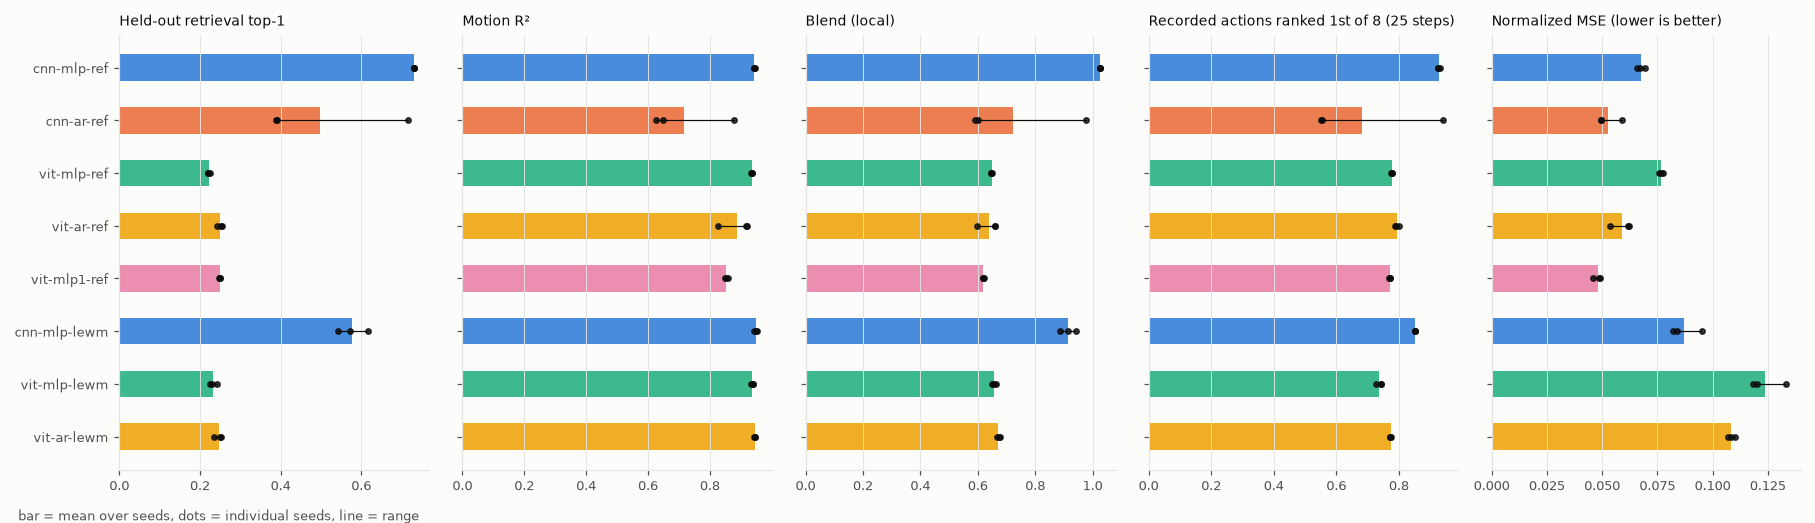
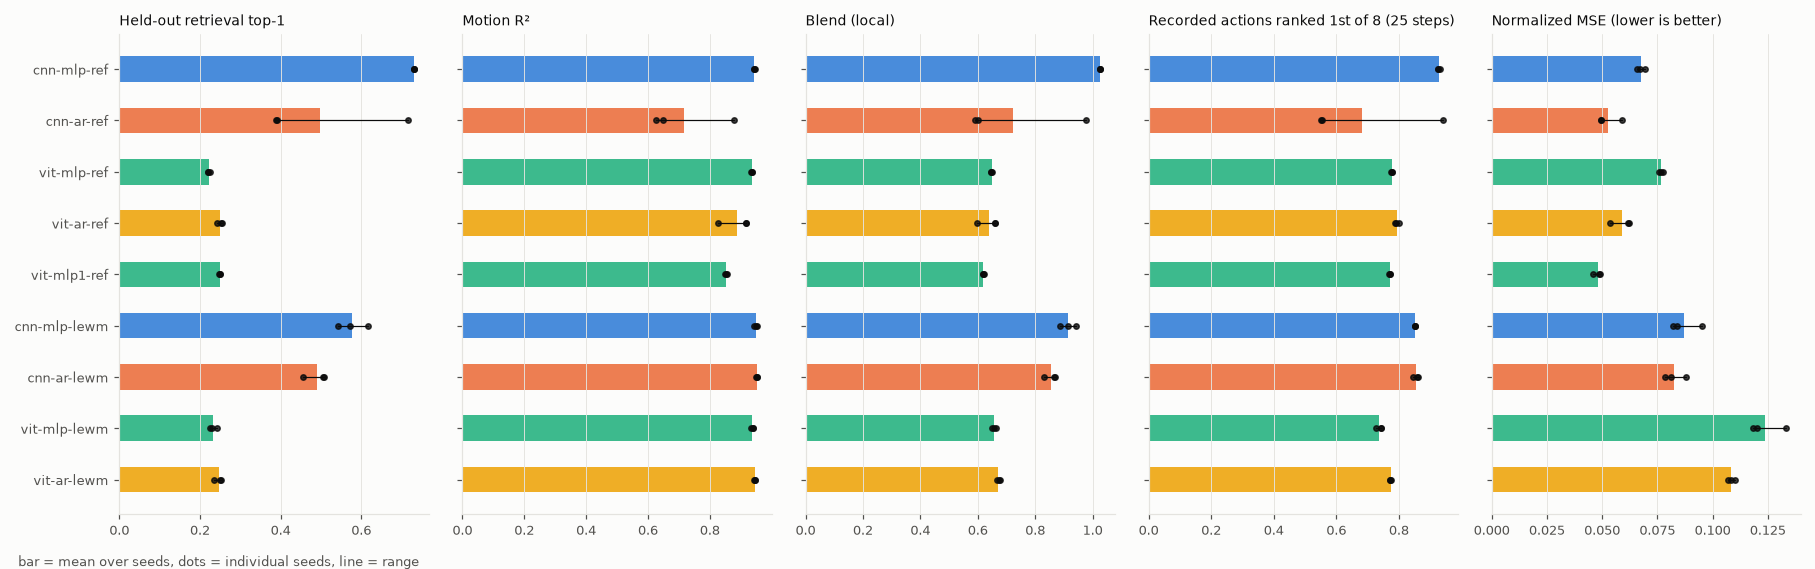
Added results from more ablation studies

diff --git a/experiments/ablations/results/encoder/report/summary.md b/experiments/ablations/results/encoder/report/summary.md
@@ -1,0 +1,15 @@
+Mean ± standard deviation across seeds; train_minutes is the mean training time of one seed with the fastest and slowest seed in brackets (evaluation not included).
+
+| combination | seeds | top1 | nmse | encoder_only | pos_r2 | blend | action_top1_25 | final_mse | train_minutes (min–max) | onnx_mib | test_submission_passed | node (GPU) |
+|---|---|---|---|---|---|---|---|---|---|---|---|---|
+| cnn-mlp-ref | 3 | 0.730 ± 0.000 | 0.067 ± 0.002 | 0.011 ± 0.001 | 0.944 ± 0.001 | 1.025 ± 0.001 | 0.927 ± 0.004 | 0.033 ± 0.000 | 82.9 (81.5–85.1) | 5.700 ± 0.000 | 3/3 | gpu2002 (RTX 2080 Ti) |
+| vit-mlp-ref | 3 | 0.221 ± 0.002 | 0.077 ± 0.001 | 0.011 ± 0.000 | 0.935 ± 0.002 | 0.648 ± 0.003 | 0.778 ± 0.002 | 0.027 ± 0.002 | 182.7 (179.7–187.0) | 4.780 ± 0.000 | 3/3 | gpu1602 (GTX 1080) |
+| vit-mlp1-ref | 3 | 0.249 ± 0.001 | 0.048 ± 0.002 | 0.011 ± 0.000 | 0.853 ± 0.004 | 0.619 ± 0.003 | 0.770 ± 0.001 | 0.026 ± 0.001 | 158.0 (157.6–158.5) | 4.400 ± 0.000 | 3/3 | gpu1702 (GTX 1080 Ti) |
+| vit_d192-mlp-ref | 2 | 0.215 ± 0.010 | 0.102 ± 0.004 | 0.011 ± 0.000 | 0.939 ± 0.002 | 0.646 ± 0.009 | 0.768 ± 0.002 | 0.037 ± 0.000 | 357.2 (354.3–360.2) | 14.100 ± 0.000 | 2/2 | gpu1603 (GTX 1080) |
+| vit_d48-mlp-ref | 3 | 0.216 ± 0.010 | 0.073 ± 0.013 | 0.011 ± 0.001 | 0.915 ± 0.011 | 0.632 ± 0.002 | 0.770 ± 0.015 | 0.035 ± 0.014 | 166.7 (165.9–168.2) | 2.240 ± 0.000 | 3/3 | gpu1604 (GTX 1080) |
+| vit_ln-mlp-ref | 3 | 0.154 ± 0.110 | 0.186 ± 0.100 | 0.009 ± 0.003 | 0.689 ± 0.425 | 0.455 ± 0.330 | 0.638 ± 0.169 | 0.073 ± 0.028 | 204.6 (203.6–206.3) | 4.780 ± 0.000 | 3/3 | gpu1605 (GTX 1080) |
+| vit_lr1e3-mlp-ref | 3 | 0.225 ± 0.007 | 0.079 ± 0.001 | 0.011 ± 0.001 | 0.930 ± 0.007 | 0.648 ± 0.003 | 0.775 ± 0.005 | 0.025 ± 0.003 | 116.1 (115.0–116.7) | 4.780 ± 0.000 | 3/3 | gpu2002 (RTX 2080 Ti) |
+| vit_lr5e5-mlp-ref | 3 | 0.215 ± 0.005 | 0.081 ± 0.005 | 0.010 ± 0.000 | 0.935 ± 0.002 | 0.643 ± 0.004 | 0.775 ± 0.002 | 0.037 ± 0.002 | 117.6 (116.8–118.0) | 4.780 ± 0.000 | 3/3 | gpu2002 (RTX 2080 Ti) |
+| vit_p16-mlp-ref | 3 | 0.226 ± 0.003 | 0.076 ± 0.002 | 0.011 ± 0.000 | 0.936 ± 0.004 | 0.651 ± 0.004 | 0.778 ± 0.008 | 0.028 ± 0.001 | 104.3 (102.9–106.9) | 4.980 ± 0.000 | 3/3 | gpu1602 (GTX 1080) |
+| vitst-mlp-ref | 3 | 0.691 ± 0.013 | 0.051 ± 0.002 | 0.011 ± 0.001 | 0.909 ± 0.005 | 0.976 ± 0.011 | 0.936 ± 0.001 | 0.035 ± 0.002 | 200.0 (199.2–201.1) | 4.410 ± 0.000 | 3/3 | gpu1907 (TITAN RTX) |
+| vitstack-mlp-ref | 3 | 0.470 ± 0.224 | 0.115 ± 0.052 | 0.010 ± 0.003 | 0.452 ± 0.419 | 0.546 ± 0.410 | 0.735 ± 0.172 | 0.112 ± 0.059 | 148.1 (145.8–150.8) | 4.540 ± 0.000 | 3/3 | gpu1906 (GTX 1080 Ti) |

diff --git a/experiments/ablations/results/loss/report/summary.md b/experiments/ablations/results/loss/report/summary.md
@@ -1,0 +1,13 @@
+Mean ± standard deviation across seeds; train_minutes is the mean training time of one seed with the fastest and slowest seed in brackets (evaluation not included).
+
+| combination | seeds | top1 | nmse | encoder_only | pos_r2 | blend | action_top1_25 | final_mse | train_minutes (min–max) | onnx_mib | test_submission_passed | node (GPU) |
+|---|---|---|---|---|---|---|---|---|---|---|---|---|
+| cnn-mlp-lewm | 3 | 0.577 ± 0.037 | 0.087 ± 0.007 | 0.015 ± 0.002 | 0.948 ± 0.004 | 0.915 ± 0.028 | 0.852 ± 0.001 | 0.055 ± 0.004 | 75.7 (74.8–77.2) | 5.700 ± 0.000 | 3/3 | gpu1906 (GTX 1080 Ti) |
+| cnn-mlp-lewm_nce | 3 | 0.749 ± 0.005 | 0.118 ± 0.001 | 0.016 ± 0.000 | 0.928 ± 0.003 | 1.030 ± 0.004 | 0.942 ± 0.001 | 0.080 ± 0.001 | 81.5 (79.6–83.6) | 5.700 ± 0.000 | 3/3 | gpu1703 (GTX 1080 Ti) |
+| cnn-mlp-ref | 3 | 0.730 ± 0.000 | 0.067 ± 0.002 | 0.011 ± 0.001 | 0.944 ± 0.001 | 1.025 ± 0.001 | 0.927 ± 0.004 | 0.033 ± 0.000 | 82.9 (81.5–85.1) | 5.700 ± 0.000 | 3/3 | gpu2002 (RTX 2080 Ti) |
+| cnn-mlp-ref_nce05x | 3 | 0.723 ± 0.003 | 0.065 ± 0.000 | 0.011 ± 0.000 | 0.944 ± 0.002 | 1.020 ± 0.002 | 0.920 ± 0.004 | 0.031 ± 0.001 | 84.6 (81.4–88.6) | 5.700 ± 0.000 | 3/3 | gpu1705 (GTX 1080 Ti) |
+| cnn-mlp-ref_nce2x | 3 | 0.742 ± 0.004 | 0.069 ± 0.001 | 0.011 ± 0.001 | 0.938 ± 0.002 | 1.031 ± 0.002 | 0.931 ± 0.006 | 0.034 ± 0.002 | 80.8 (77.8–86.1) | 5.700 ± 0.000 | 3/3 | gpu1704 (GTX 1080 Ti) |
+| cnn-mlp-ref_nonce | 3 | 0.388 ± 0.003 | 0.059 ± 0.001 | 0.010 ± 0.001 | 0.709 ± 0.002 | 0.637 ± 0.001 | 0.554 ± 0.005 | 0.015 ± 0.000 | 82.7 (80.0–85.2) | 5.700 ± 0.000 | 3/3 | gpu1601 (GTX 1080) |
+| cnn-mlp-ref_novcregt | 3 | 0.746 ± 0.014 | 0.047 ± 0.004 | 0.015 ± 0.001 | 0.920 ± 0.046 | 1.023 ± 0.017 | 0.941 ± 0.013 | 0.014 ± 0.004 | 80.2 (77.4–84.3) | 5.700 ± 0.000 | 3/3 | gpu1702 (GTX 1080 Ti) |
+| cnn-mlp-ref_tau005 | 3 | 0.736 ± 0.005 | 0.066 ± 0.000 | 0.011 ± 0.001 | 0.940 ± 0.004 | 1.028 ± 0.006 | 0.928 ± 0.002 | 0.031 ± 0.001 | 81.5 (79.5–84.6) | 5.700 ± 0.000 | 3/3 | gpu1706 (GTX 1080 Ti) |
+| cnn-mlp-ref_tau02 | 3 | 0.723 ± 0.002 | 0.066 ± 0.000 | 0.011 ± 0.000 | 0.948 ± 0.002 | 1.023 ± 0.001 | 0.915 ± 0.005 | 0.033 ± 0.002 | 85.2 (83.7–87.7) | 5.700 ± 0.000 | 3/3 | gpu1707 (GTX 1080 Ti) |

diff --git a/experiments/ablations/results/main/report/summary.md b/experiments/ablations/results/main/report/summary.md
@@ -2,6 +2,7 @@ Mean ± standard deviation across seeds; train_minutes is the mean training time
 
 | combination | seeds | top1 | nmse | encoder_only | pos_r2 | blend | action_top1_25 | final_mse | train_minutes (min–max) | onnx_mib | test_submission_passed | node (GPU) |
 |---|---|---|---|---|---|---|---|---|---|---|---|---|
+| cnn-ar-lewm | 3 | 0.490 ± 0.029 | 0.083 ± 0.005 | 0.011 ± 0.001 | 0.951 ± 0.001 | 0.854 ± 0.022 | 0.855 ± 0.008 | 0.085 ± 0.003 | 171.3 (167.3–177.1) | 8.760 ± 0.000 | 3/3 | gpu1906 (GTX 1080 Ti) |
 | cnn-ar-ref | 3 | 0.498 ± 0.188 | 0.053 ± 0.006 | 0.012 ± 0.000 | 0.718 ± 0.139 | 0.723 ± 0.219 | 0.682 ± 0.224 | 0.055 ± 0.010 | 168.1 (166.6–169.6) | 8.760 ± 0.000 | 3/3 | gpu1906 (GTX 1080 Ti) |
 | cnn-mlp-lewm | 3 | 0.577 ± 0.037 | 0.087 ± 0.007 | 0.015 ± 0.002 | 0.948 ± 0.004 | 0.915 ± 0.028 | 0.852 ± 0.001 | 0.055 ± 0.004 | 75.7 (74.8–77.2) | 5.700 ± 0.000 | 3/3 | gpu1906 (GTX 1080 Ti) |
 | cnn-mlp-ref | 3 | 0.730 ± 0.000 | 0.067 ± 0.002 | 0.011 ± 0.001 | 0.944 ± 0.001 | 1.025 ± 0.001 | 0.927 ± 0.004 | 0.033 ± 0.000 | 82.9 (81.5–85.1) | 5.700 ± 0.000 | 3/3 | gpu2002 (RTX 2080 Ti) |
